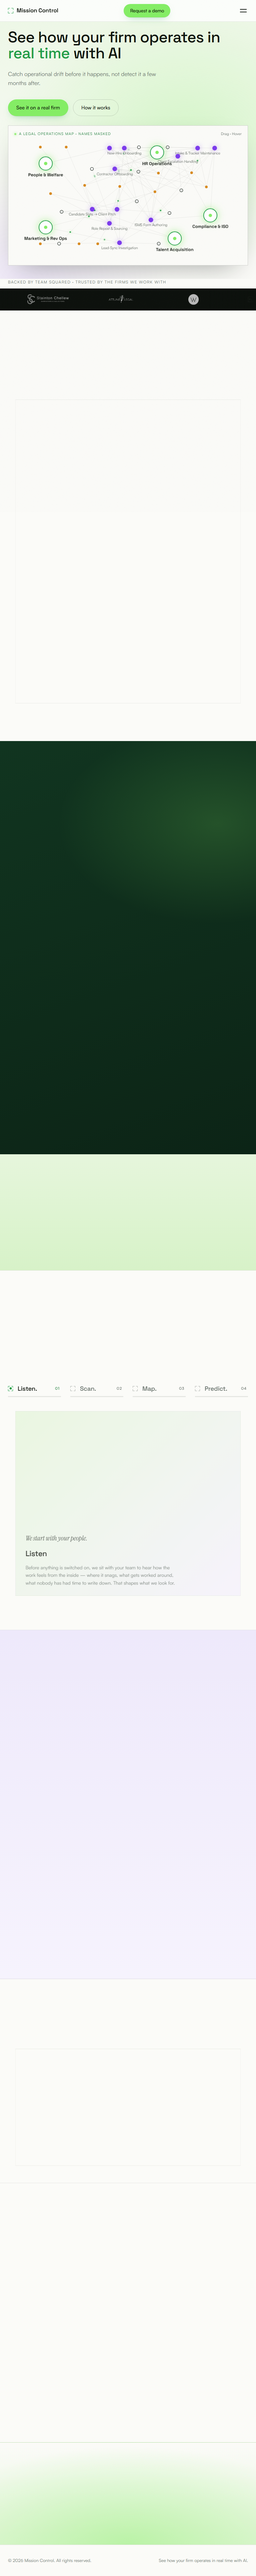
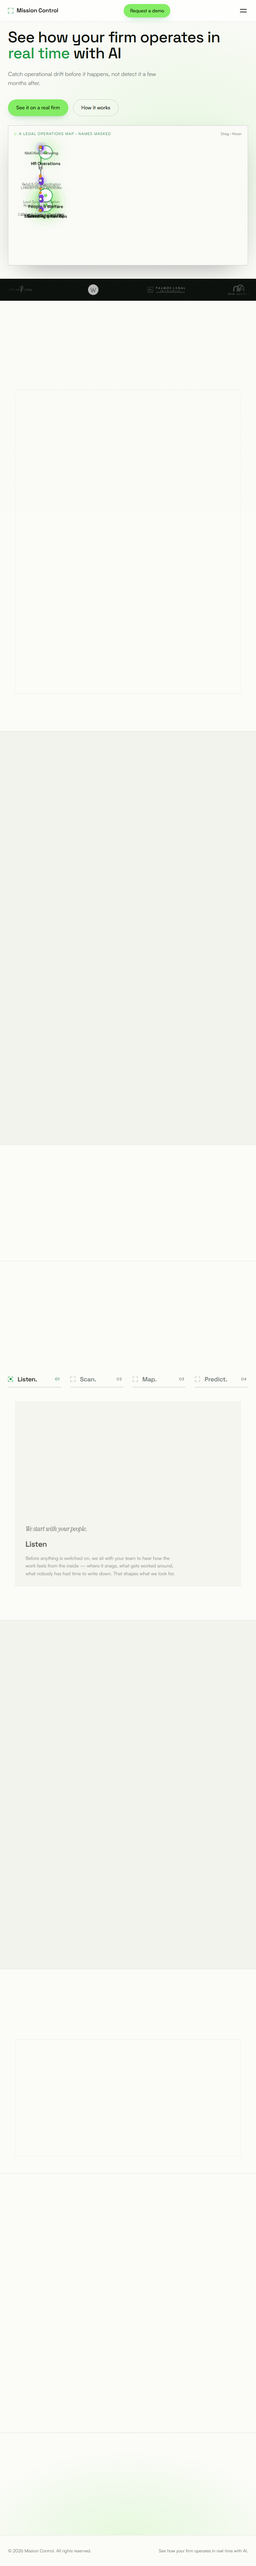
Back to the paper-and-green scheme; See it live head centred and typed in
- Colour bands reverted (no dark, violet or amber tints)
- Logo strips lose the "Backed by…" label; logos stand alone
- See it live: centred head with a typewriter reveal (title, then paragraph)

diff --git a/src/styles.css b/src/styles.css
@@ -23,13 +23,6 @@
   --glow-magenta: #d948ae;
   --ember: #f59e0b;
   --amber: #d98a1e;
-  /* colour bands — the page alternates tints instead of staying white */
-  --tint-green: #e6f6dc;
-  --tint-green-2: #d7f2c8;
-  --tint-violet: #eee9fb;
-  --tint-amber: #fbf0dd;
-  --ink-band: #0c2416;
-  --ink-band-2: #113520;
 
   --font-display: "Space Grotesk", "Segoe UI", system-ui, sans-serif;
   --font-body: "Satoshi", "Inter", "Segoe UI", system-ui, sans-serif; /* Satoshi via Fontshare, same as lex-ops.io */
@@ -212,9 +205,8 @@ body[data-view] main, body[data-view] footer { display: none; }
   padding: 104px 0 40px;
   overflow: hidden;
   background:
-    radial-gradient(900px 620px at 72% 50%, rgba(132, 238, 100, 0.28), transparent 62%),
-    radial-gradient(700px 500px at 10% 100%, rgba(124, 58, 237, 0.10), transparent 60%),
-    linear-gradient(180deg, #edf8e6 0%, var(--bg-0) 78%);
+    radial-gradient(900px 620px at 72% 50%, rgba(132, 238, 100, 0.14), transparent 62%),
+    var(--bg-0);
 }
 /* the map lives inside a window beside the copy — it never sprawls behind the headline */
 .hero-panel { height: 540px; }
@@ -373,12 +365,9 @@ body[data-view] main, body[data-view] footer { display: none; }
 
 /* ---------- privacy stat row ---------- */
 .gov-row { display: grid; grid-template-columns: repeat(4, 1fr); border: 1px solid var(--border); margin-top: 26px; background: var(--bg-0); }
-.gov { padding: 28px 26px 30px; border-right: 1px solid var(--border); transition: background 0.3s; background: var(--tint-green); }
-.gov:nth-child(2) { background: var(--tint-violet); }
-.gov:nth-child(3) { background: var(--tint-amber); }
-.gov:nth-child(4) { background: var(--tint-green-2); }
+.gov { padding: 28px 26px 30px; border-right: 1px solid var(--border); transition: background 0.3s; }
 .gov:last-child { border-right: 0; }
-.gov:hover { filter: brightness(1.02); }
+.gov:hover { background: var(--bg-1); }
 .gov-n { font-family: var(--font-display); font-size: clamp(1.9rem, 3vw, 2.5rem); font-weight: 500; letter-spacing: -0.03em; color: var(--accent-deep); line-height: 1; }
 .gov-l { font-family: var(--font-display); font-size: 0.95rem; color: var(--text-hi); margin: 8px 0 10px; }
 .gov p { font-size: 0.84rem; }
@@ -387,12 +376,10 @@ body[data-view] main, body[data-view] footer { display: none; }
 .stage-cards { display: grid; grid-template-columns: repeat(3, 1fr); gap: 18px; margin-top: 26px; }
 .stage-card {
   display: flex; flex-direction: column; gap: 10px; padding: 30px 28px 26px;
-  border: 1px solid var(--border); background: var(--tint-green);
+  border: 1px solid var(--border); background: var(--bg-0);
   transition: transform 0.3s var(--ease-out-expo), border-color 0.3s, background 0.3s;
 }
-.stage-card:nth-child(2) { background: var(--tint-violet); }
-.stage-card:nth-child(3) { background: var(--tint-amber); }
-.stage-card:hover { transform: translateY(-3px); border-color: var(--border-strong); }
+.stage-card:hover { transform: translateY(-3px); border-color: var(--border-strong); background: var(--bg-1); }
 .stage-card h4 { font-family: var(--font-display); font-weight: 500; font-size: 1.2rem; color: var(--text-hi); }
 .stage-card p { font-size: 0.92rem; flex: 1; }
 .card-cta { font-size: 0.85rem; color: var(--accent-deep); font-weight: 500; margin-top: 6px; }
@@ -418,12 +405,8 @@ body[data-view] main, body[data-view] footer { display: none; }
   border-right: 1px solid var(--border);
   transition: background 0.3s;
 }
-.villain-card:nth-child(1) { background: var(--tint-green); }
-.villain-card:nth-child(2) { background: var(--tint-violet); }
-.villain-card:nth-child(3) { background: var(--tint-amber); }
-.villain-card:hover { filter: brightness(1.02); }
+.villain-card:hover { background: var(--bg-1); }
 .villain-card.scan-frame > .c { z-index: 2; }
-.v-hop .tool { fill: rgba(255,255,255,0.7); }
 .villain-card:last-child { border-right: 0; }
 .villain-card .viz {
   height: 130px;
@@ -628,7 +611,7 @@ body[data-view] main, body[data-view] footer { display: none; }
   gap: 64px;
   align-items: center;
   border: 1px solid var(--border);
-  background: linear-gradient(135deg, var(--tint-green), #f5f1fd);
+  background: var(--bg-1);
   padding: 28px 32px;
 }
 #how-canvas { width: 100%; height: 320px; display: block; }
@@ -658,9 +641,9 @@ body[data-view] main, body[data-view] footer { display: none; }
   height: 420px;
   display: block;
   border: 1px solid var(--border);
-  background: linear-gradient(135deg, var(--tint-green), #f5f1fd);
+  background: var(--bg-1);
 }
-#trust { background: linear-gradient(180deg, var(--tint-green), var(--bg-0)); }
+#trust { background: var(--bg-1); }
 .p-copy h3 { font-size: clamp(1.5rem, 2.6vw, 2.1rem); margin-bottom: 16px; }
 .p-copy p { font-size: 0.95rem; max-width: 50ch; margin-bottom: 14px; }
 .p-copy .plist { list-style: none; margin-top: 20px; }
@@ -683,8 +666,7 @@ body[data-view] main, body[data-view] footer { display: none; }
   border-right: 1px solid var(--border);
   transition: background 0.3s;
 }
-.pillar { background: rgba(255,255,255,0.6); }
-.pillar:hover { background: #fff; }
+.pillar:hover { background: var(--bg-0); }
 .pillar:last-child { border-right: 0; }
 .pillar h4 { font-family: var(--font-display); font-weight: 500; font-size: 1.05rem; color: var(--text-mid); margin-bottom: 10px; }
 .pillar p { font-size: 0.85rem; }
@@ -698,25 +680,17 @@ body[data-view] main, body[data-view] footer { display: none; }
 .head-center .eyebrow { justify-content: center; }
 .head-center .section-h { max-width: 24ch; font-size: clamp(2.2rem, 4.4vw, 3.6rem); }
 .head-center .section-sub { text-align: center; }
+/* See it live: centred head, typed in */
+#try .view-head.try-head { display: flex; flex-direction: column; align-items: center; text-align: center; padding: 24px 0 18px; }
+#try .try-head .section-h { max-width: 24ch; min-height: 1.15em; }
+#try .try-head .section-sub { max-width: 68ch; min-height: 3.2em; font-size: 0.92rem; }
+#try .try-head .view-back { align-self: center; margin-bottom: 14px; }
+.tw-caret { display: inline-block; width: 2px; height: 0.95em; background: var(--accent); margin-left: 3px; vertical-align: -0.12em; animation: tw-blink 0.9s steps(1) infinite; }
+@keyframes tw-blink { 50% { opacity: 0; } }
 .villain-card h3 { font-size: 1.35rem; color: var(--text-hi); }
 
-/* ---------- "we built real visibility inside our own team first": a deep-forest band ---------- */
-#visibility {
-  background:
-    radial-gradient(800px 500px at 85% 20%, rgba(132,238,100,0.18), transparent 60%),
-    linear-gradient(160deg, var(--ink-band-2), var(--ink-band));
-  border-top: 0;
-}
-#visibility .eyebrow { color: var(--accent-bright); }
-#visibility .section-h { color: #f4f7f1; }
-#visibility .section-h .kw { color: var(--accent-bright); }
-#visibility .lede { color: #c9d6c7; }
-#visibility .proof-stats { border-top-color: rgba(255,255,255,0.14); }
-#visibility .pstat { border-bottom-color: rgba(255,255,255,0.12); }
-#visibility .pstat-n { color: var(--accent-bright); }
-#visibility .pstat-l { color: #f4f7f1; }
-#visibility .pstat p { color: #a7b8a6; }
-#visibility .atlas-preview { border-color: rgba(132,238,100,0.35); box-shadow: 0 40px 100px -40px rgba(0,0,0,0.8), 0 0 0 1px rgba(255,255,255,0.05); }
+/* ---------- "we built real visibility inside our own team first" ---------- */
+#visibility { background: var(--bg-1); }
 .module-grid { display: grid; grid-template-columns: minmax(0, 0.85fr) minmax(0, 1.15fr); gap: 48px; align-items: center; margin-top: 12px; }
 .module-panel {
   position: relative; height: 520px; overflow: hidden;
@@ -731,8 +705,8 @@ body[data-view] main, body[data-view] footer { display: none; }
 .module-copy .section-h { margin-bottom: 14px; }
 .module-copy .lede { font-size: 1.05rem; color: var(--text-mid); margin-bottom: 26px; max-width: 44ch; }
 
-/* ---------- statement: lime-tinted band ---------- */
-#statement { padding: var(--sec-pad) 0; background: linear-gradient(180deg, var(--tint-green), var(--tint-green-2)); border-top: 0; }
+/* ---------- statement ---------- */
+#statement { padding: var(--sec-pad) 0; }
 .statement-big {
   font-family: var(--font-display);
   font-size: clamp(2rem, 4.6vw, 3.8rem);
@@ -744,10 +718,8 @@ body[data-view] main, body[data-view] footer { display: none; }
 }
 .statement-sub { max-width: 58ch; margin: 0 auto; font-size: 1.05rem; }
 
-/* ---------- what Mission Control does: a violet-tinted band ---------- */
-#solution { padding: var(--sec-pad) 0; background: linear-gradient(180deg, var(--tint-violet), #f6f3fd); border-top: 1px solid var(--border); border-bottom: 1px solid var(--border); }
-#solution .context-card { border-top-color: rgba(124,58,237,0.16); }
-#solution .context-card:last-child { border-bottom-color: rgba(124,58,237,0.16); }
+/* ---------- what Mission Control does: a demarcated band ---------- */
+#solution { padding: var(--sec-pad) 0; background: var(--bg-1); border-top: 1px solid var(--border); border-bottom: 1px solid var(--border); }
 
 /* ---------- who we are ---------- */
 #about .story {
@@ -772,9 +744,8 @@ body[data-view] main, body[data-view] footer { display: none; }
   align-items: start;
   padding: 20px;
   border: 1px solid var(--border);
-  background: var(--tint-green);
+  background: var(--bg-1);
 }
-.team-card:nth-child(2) { background: var(--tint-violet); }
 .team-photo {
   aspect-ratio: 4 / 5;
   overflow: hidden;
@@ -849,7 +820,7 @@ body[data-view] main, body[data-view] footer { display: none; }
   text-align: center;
   padding: 64px 0 56px;
   border-top: 1px solid var(--border);
-  background: radial-gradient(900px 420px at 50% 100%, rgba(132, 238, 100, 0.45), transparent 70%), linear-gradient(180deg, var(--bg-0), var(--tint-green));
+  background: radial-gradient(700px 360px at 50% 100%, rgba(132, 238, 100, 0.18), transparent 70%), var(--bg-0);
 }
 .end-block h2 { font-size: clamp(2rem, 4.4vw, 3.4rem); margin-bottom: 20px; }
 .end-block p { margin-bottom: 36px; }

diff --git a/index.html b/index.html
@@ -62,7 +62,6 @@
 
   <!-- ============ 2 TRUST STRIP ============ -->
   <section class="trust-strip" aria-label="Trusted by">
-    <div class="wrap"><span class="proof-label">Backed by Team Squared · Trusted by the firms we work with</span></div>
     <div class="logo-ribbon">
       <div class="logo-fade l" aria-hidden="true"></div>
       <div class="logo-fade r" aria-hidden="true"></div>
@@ -359,8 +358,7 @@
       </div>
     </div>
     <div class="clients reveal">
-      <div class="wrap"><span class="proof-label">Backed by Team Squared · Trusted by the firms we work with</span></div>
-      <div class="logo-ribbon" aria-label="Client law firms">
+        <div class="logo-ribbon" aria-label="Client law firms">
         <div class="logo-fade l" aria-hidden="true"></div>
         <div class="logo-fade r" aria-hidden="true"></div>
         <div class="logo-track" id="logo-track">
@@ -470,11 +468,11 @@
 
 <!-- ============ VIEW · SEE IT LIVE — Process Atlas ============ -->
 <section id="try" class="view" aria-label="See it live">
-  <div class="wrap view-head compact">
+  <div class="wrap view-head compact head-center try-head">
     <a class="view-back" href="#hero">← Back to overview</a>
     <div class="eyebrow">See it live</div>
-    <h2 class="section-h">Our parent company, as a <span class="kw">living map</span></h2>
-    <p class="section-sub">We ran Mission Control on Team Squared — our parent company — before anyone else. This is that map, live: every department, workflow, role and tool, as proof of what it can do for your firm. Drag anything. Click a department to look inside it; click a workflow to follow the usual path and every exception.</p>
+    <h2 class="section-h" id="try-title"><span class="tw" data-text="Our parent company, as a "></span><span class="kw tw" data-text="living map"></span></h2>
+    <p class="section-sub tw" id="try-sub" data-text="We ran Mission Control on Team Squared — our parent company — before anyone else. This is that map, live: every department, workflow, role and tool, as proof of what it can do for your firm. Drag anything. Click a department to look inside it; click a workflow to follow the usual path and every exception."></p>
   </div>
 
   <div class="atlas" id="atlas">

diff --git a/src/main.js b/src/main.js
@@ -16,12 +16,33 @@ function route() {
   document.querySelectorAll('.nav-links a').forEach((a) => a.classList.toggle('active', a.getAttribute('href') === '#' + id));
   if (isView) {
     window.scrollTo({ top: 0, behavior: 'instant' });
-    if (id === 'try' && !atlasReady) { atlasReady = true; initAtlas(document.getElementById('try')); }
+    if (id === 'try' && !atlasReady) { atlasReady = true; initAtlas(document.getElementById('try')); typewriter(); }
   } else if (id && wasView) {
     // main was hidden when the hash changed, so the browser could not scroll to it
     requestAnimationFrame(() => document.getElementById(id)?.scrollIntoView({ behavior: 'instant' }));
   }
 }
+/* the See-it-live head types itself in: title first, then the paragraph */
+function typewriter() {
+  const targets = [...document.querySelectorAll('#try .tw')];
+  if (!targets.length) return;
+  if (REDUCED) { targets.forEach((el) => (el.textContent = el.dataset.text)); return; }
+  const caret = document.createElement('i'); caret.className = 'tw-caret';
+  let i = 0;
+  const typeInto = (el, speed, done) => {
+    const text = el.dataset.text; let n = 0;
+    el.textContent = ''; el.appendChild(caret);
+    const tick = () => {
+      n++; el.textContent = text.slice(0, n); el.appendChild(caret);
+      if (n < text.length) setTimeout(tick, speed + (text[n - 1] === '.' ? 180 : 0));
+      else done();
+    };
+    tick();
+  };
+  const next = () => { if (i >= targets.length) { caret.remove(); return; } const el = targets[i++]; typeInto(el, el.tagName === 'P' ? 11 : 38, next); };
+  setTimeout(next, 250);
+}
+
 window.addEventListener('hashchange', route);
 route();
 
